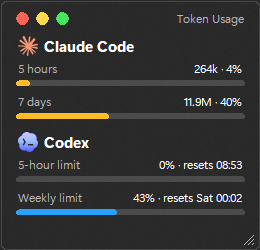
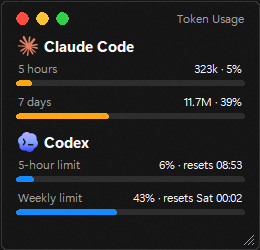
Add hero image, darker glass look, refresh screenshot

diff --git a/widget.py b/widget.py
@@ -21,13 +21,16 @@ LOGOS = BASE / "logos"
 EDGES = (r"C:\Program Files (x86)\Microsoft\Edge\Application\msedge.exe",
          r"C:\Program Files\Microsoft\Edge\Application\msedge.exe")
 REFRESH_MS = 30_000
+GLASS = True  # blurred glass over what is behind it; False = solid dark
+GLASS_ACCENT = (3, 0)  # (3 = plain blur, stays dark | 4, 0xB0000000 = stronger acrylic blur but lifts blacks to grey)
+GLASS_ALPHA = 0.78  # lower = more of the blurred background shows
 DEFAULTS = {"x": None, "y": None, "w": 300, "compact": False,
             "show_claude": None, "show_codex": None,   # null = auto (show if its log folder exists)
             "claude_5h_cap": None,          # null = your own peak 5h window
             "claude_7d_cap": 30_000_000}    # edit to taste (Claude logs have no official limit)
 
 KEY = "#010203"  # transparent colour key for rounded corners
-BG, BORDER, TRACK = "#0c0c0c", "#2a2a2a", "#2e2e2e"
+BG, BORDER, TRACK = "#0e0e0f", "#2c2c2e", "#262628"
 FG, DIM = "#f2f2f7", "#98989d"
 ORANGE, BLUE, RED, YELLOW, LIGHT_GREEN = "#ff9f0a", "#0a84ff", "#ff453a", "#febc2e", "#28c840"
 FONT = "Segoe UI"
@@ -244,7 +247,7 @@ class Widget:
         r.title("Token Usage")
         r.overrideredirect(True)
         r.attributes("-topmost", True)
-        r.attributes("-alpha", 0.95)
+        r.attributes("-alpha", GLASS_ALPHA if GLASS else 1.0)
         r.configure(bg=BG)
         self.cv = tk.Canvas(r, bg=BG, highlightthickness=0, bd=0)
         self.cv.pack(fill="both", expand=True)
@@ -519,8 +522,9 @@ class Widget:
             class WCA(Structure):
                 _fields_ = [("Attr", c_int), ("Data", c_void_p), ("Size", c_size_t)]
 
-            acc = ACCENT(4, 0, 0xD0000000, 0)  # acrylic, ABGR tint
-            u.SetWindowCompositionAttribute(hwnd, byref(WCA(19, ctypes.addressof(acc), sizeof(acc))))
+            acc = ACCENT(GLASS_ACCENT[0], 0, GLASS_ACCENT[1], 0)
+            if GLASS:
+                u.SetWindowCompositionAttribute(hwnd, byref(WCA(19, ctypes.addressof(acc), sizeof(acc))))
             ctypes.windll.dwmapi.DwmSetWindowAttribute(hwnd, 33, byref(c_int(2)), 4)  # rounded
         except Exception:
             pass

diff --git a/README.md b/README.md
@@ -5,7 +5,7 @@
 A small always-on-top widget that shows how much of your 5-hour and weekly limits you've used, so you
 stop guessing and stop getting cut off mid-task.
 
-![Usage Deck](docs/screenshot.png)
+![Usage Deck](docs/hero.png)
 
 ## Features
 
@@ -16,6 +16,13 @@ stop guessing and stop getting cut off mid-task.
 - **Looks native:** dark, rounded, slightly frosted glass, with Mac-style window buttons.
 - **Stays out of the way:** drag it anywhere, resize it, minimize it, or switch to compact view.
 - **Pin it and forget it:** taskbar button, custom icon, optional start with Windows.
+
+<details>
+<summary>Actual screenshot</summary>
+
+![Usage Deck screenshot](docs/screenshot.png)
+
+</details>
 
 ## Quick start
 
